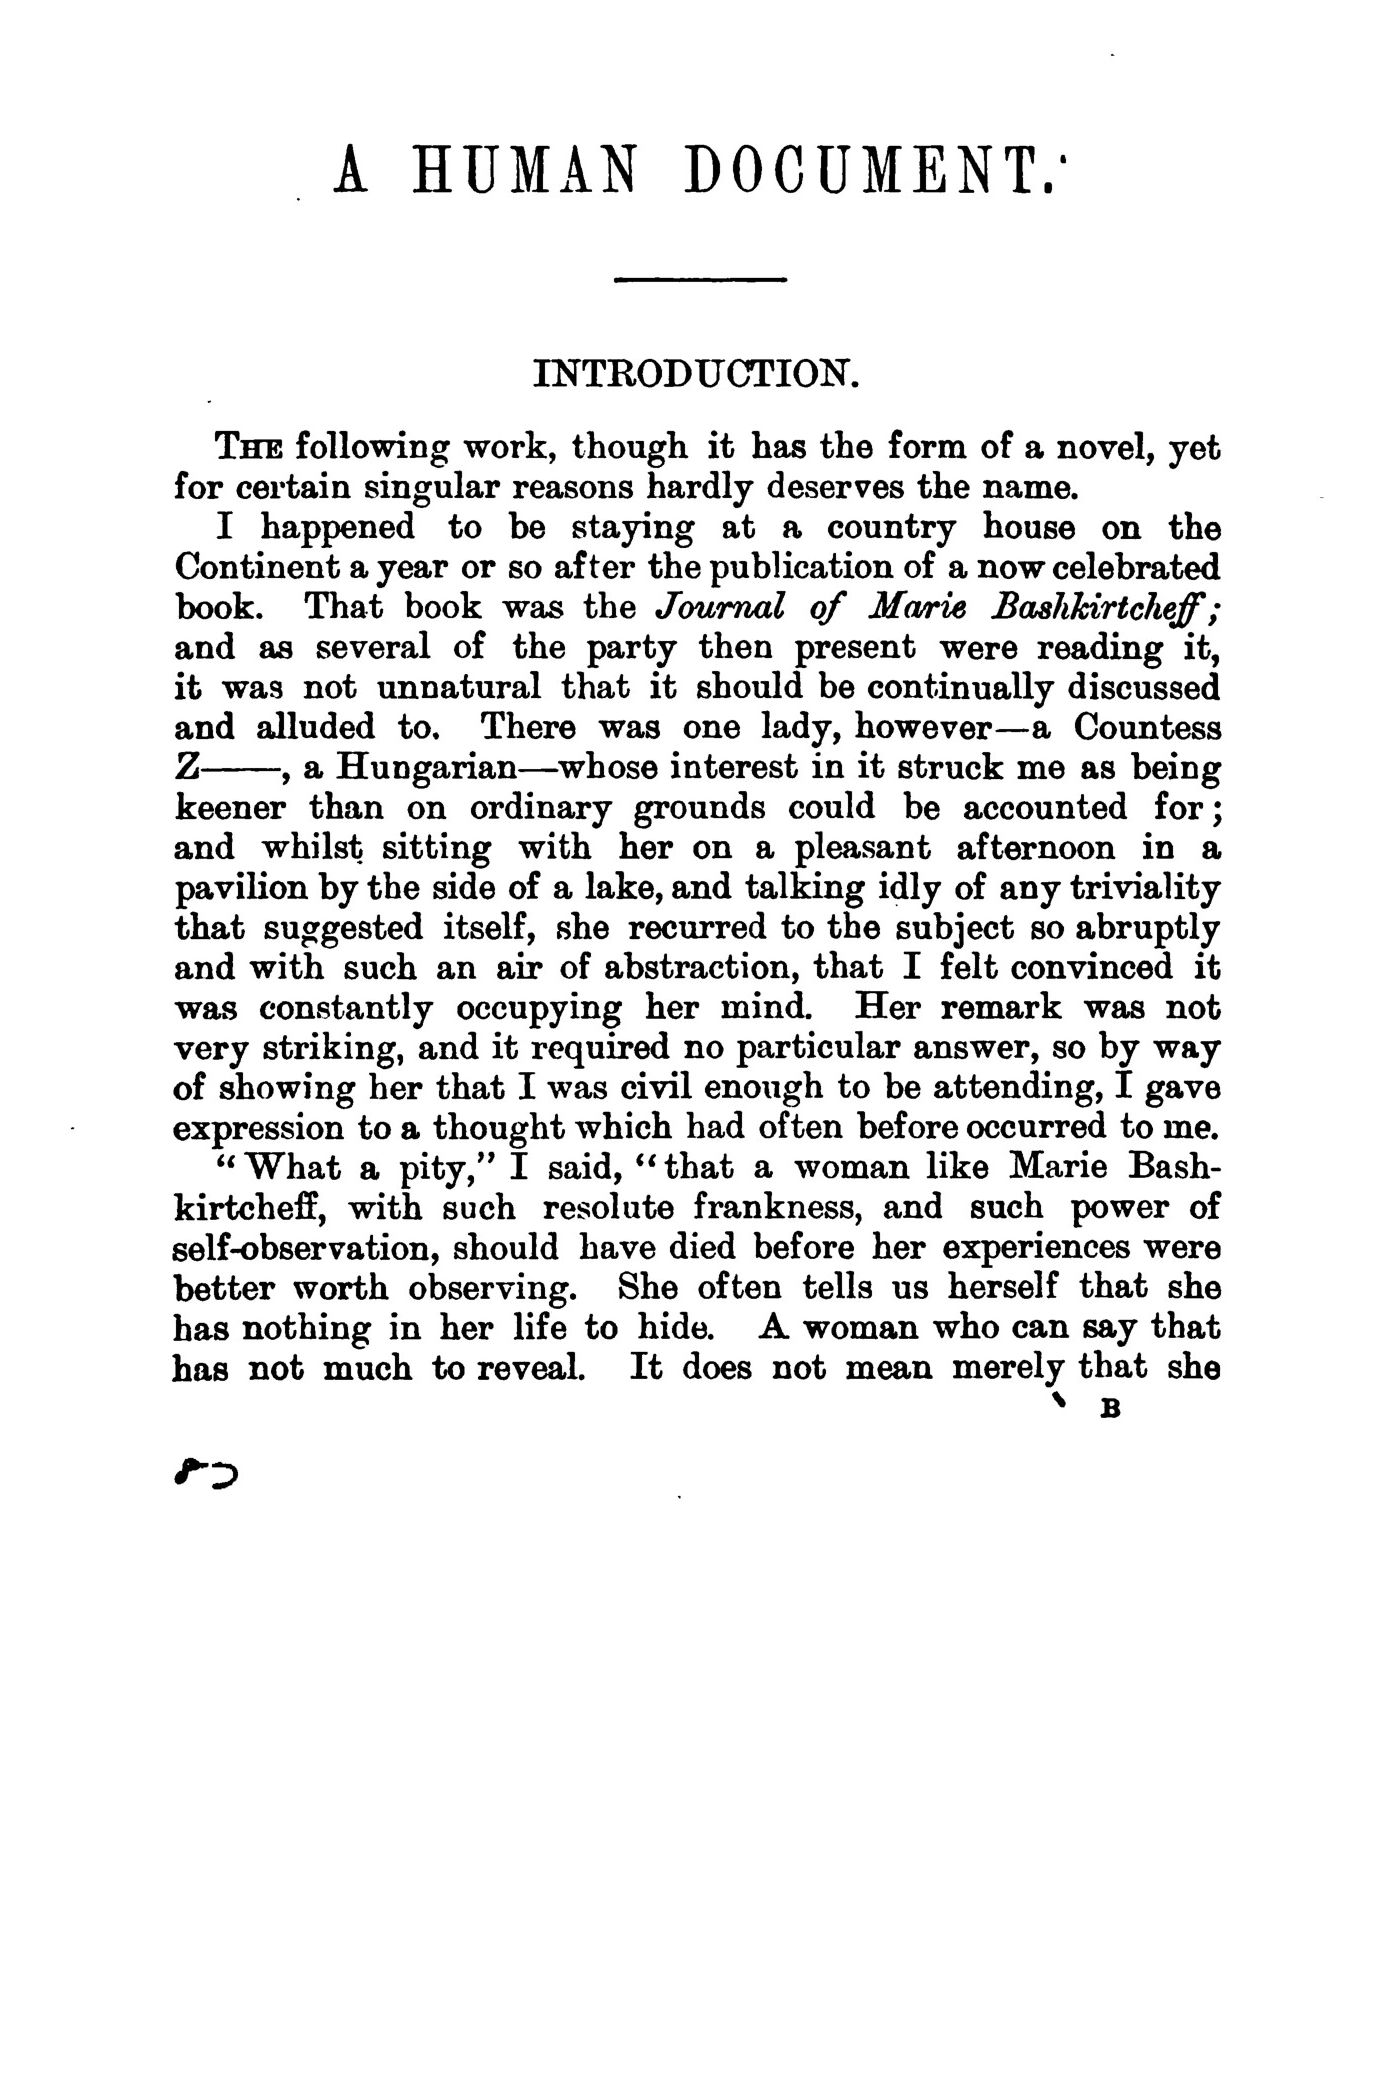
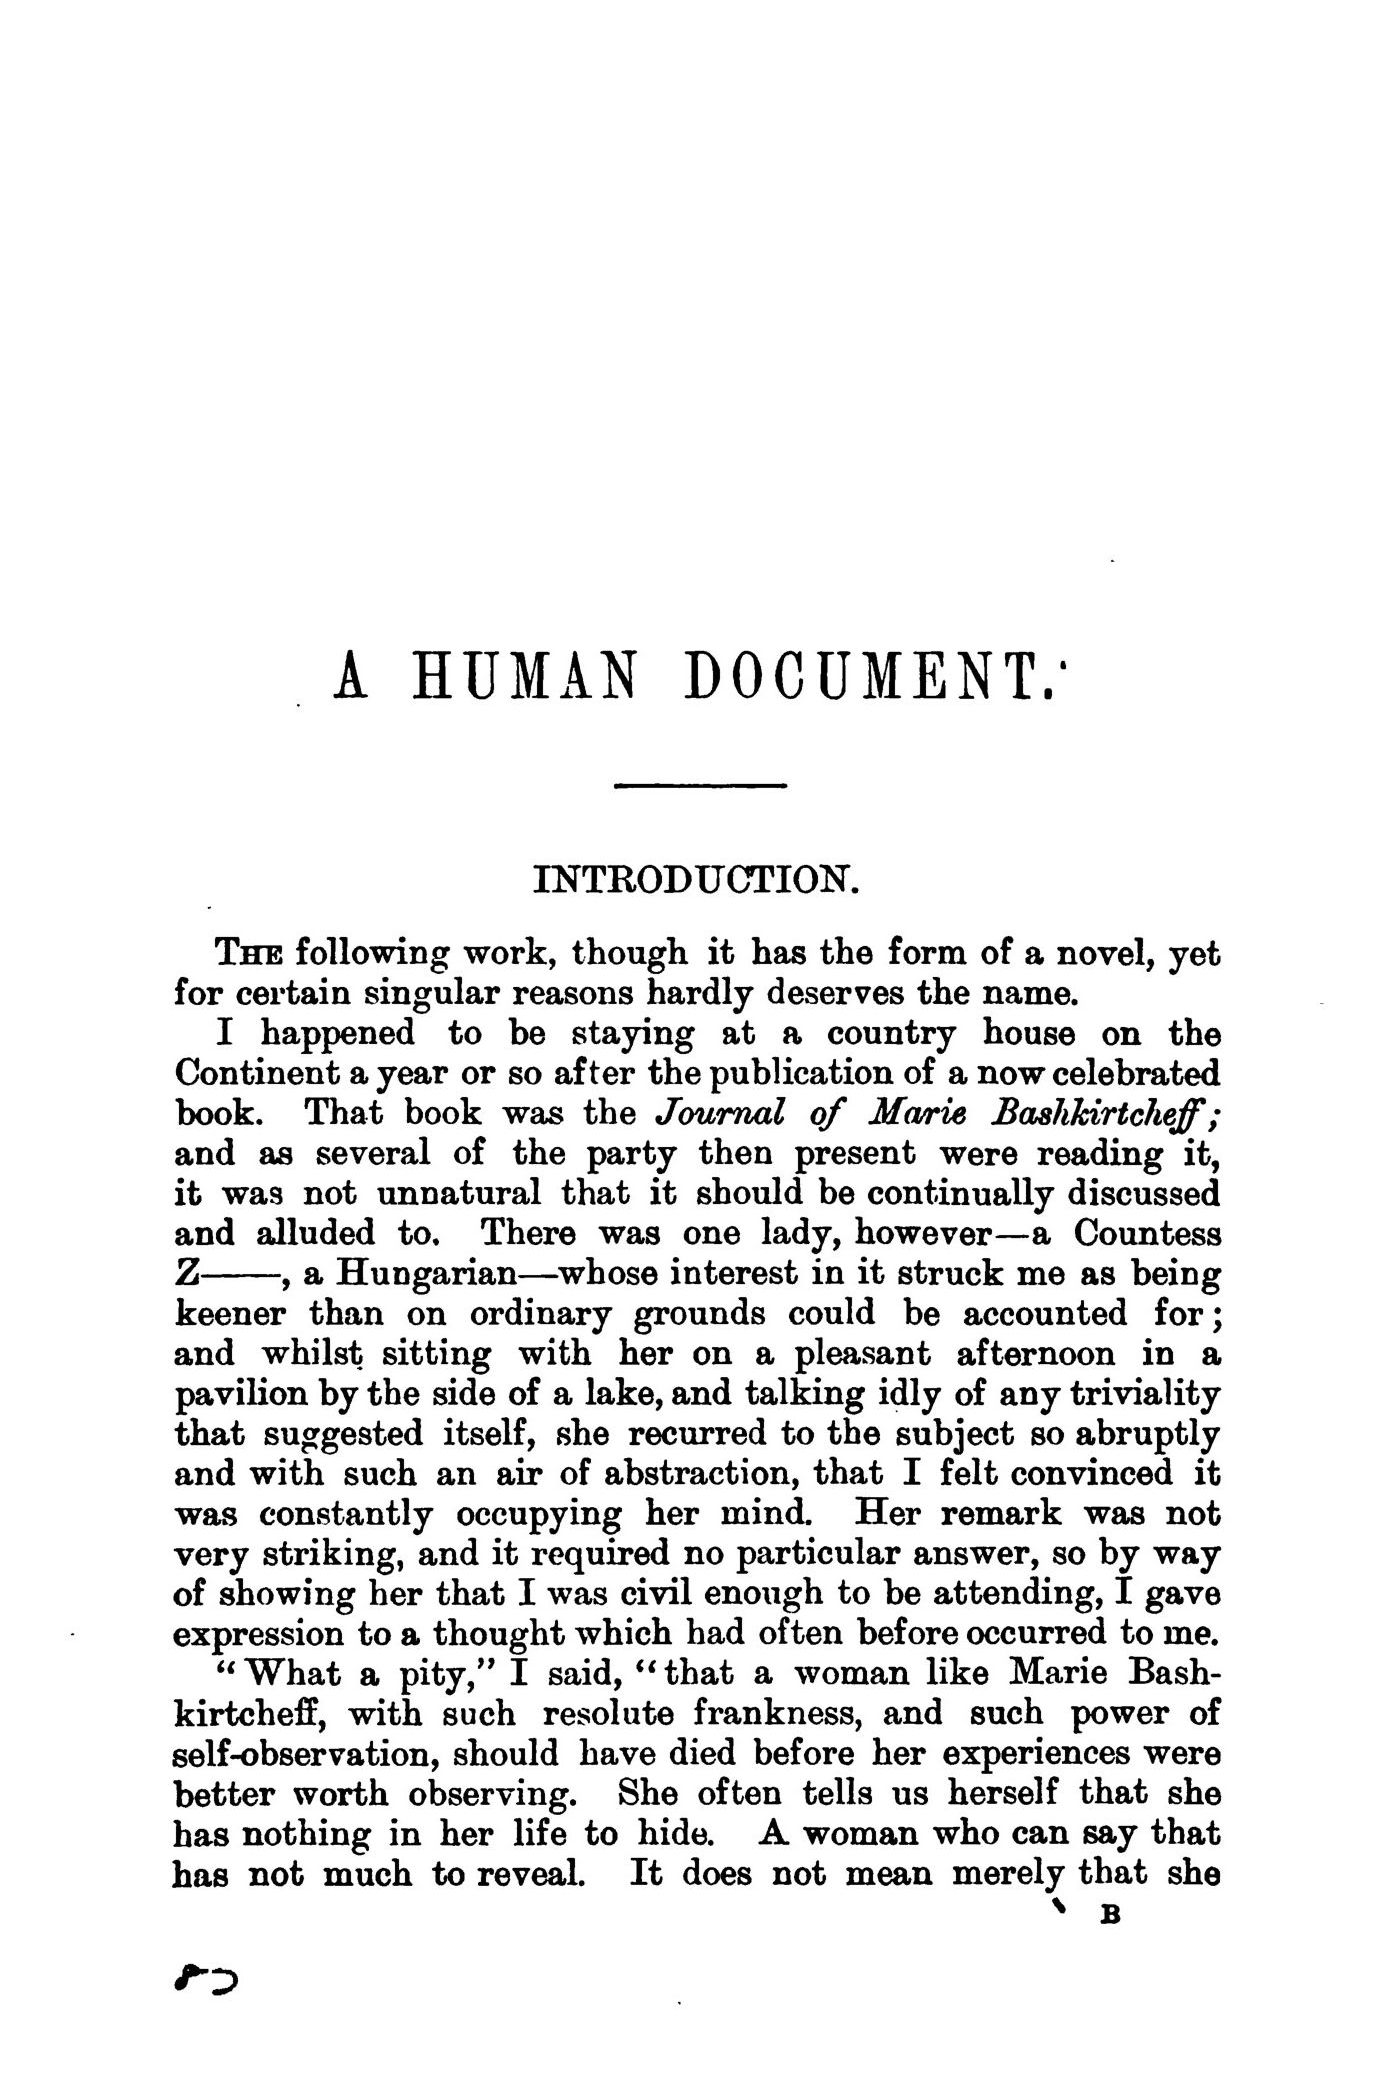
Bottom-align page 1 (Introduction) in the CV pipeline; revert collage hack
Page 1 opens on a large display title rather than the running header, so 01c
Pass 1 anchored it near the top and stripped the chapter-opening sink, leaving
the short intro floating above a ~506px false blank bottom (body ended at
y=1394 vs the median 1900 every full page lands on).

Fix it where it belongs — in the pipeline, so the published image AND the OCR
coordinates move together:
  - config: CHAPTER_PAGES = {1} (the one body-bottom-anchored page).
  - 01c: add a deterministic `--realign` path that translates an already-
    corrected page (image + word bboxes + page_corrections) so its body bottom
    meets the median title-page bottom. No re-OCR — Apple Vision is
    nondeterministic and the DB is a versioned artifact, so Pass 2's geometry is
    reproduced by a pure +506px shift of committed data.
  - regenerated data/pages_corrected/p0001.jpg, humument.db (page-1 coords),
    and via 01d/02/03 the normalized image + whitespace graph + web export.

Now that the data itself is aligned, revert render_showcase.py to plain
_contain (drop the hard-coded per-cell baseline) and regenerate the collages.

humument-data + humument-images bumped to 0.1.1 (page-1 data correction); the
humument library floats on humument-*@0.1 so it needs no change. verify: 13/13
checks, 10 tests, typecheck all pass.

diff --git a/pipeline/01c_correct_tilt.py b/pipeline/01c_correct_tilt.py
@@ -441,17 +441,90 @@ def process_chapter_page(page_num, words, targets, db):
 
 
 # ---------------------------------------------------------------------------
+# Deterministic bottom-align for already-corrected pages (no re-OCR)
+# ---------------------------------------------------------------------------
+
+def median_title_body_bottom(db):
+    """Median body-bottom (corrected-space y) over the header-anchored title
+    pages — the line every full page ends on, and the target CHAPTER_PAGES are
+    aligned to. The chapter pages themselves are excluded so they never bias
+    their own target."""
+    ys = [y for (pn, y) in db.execute(
+              "SELECT page_num, body_y1 FROM page_corrections "
+              "WHERE body_y1 IS NOT NULL")
+          if pn not in CHAPTER_PAGES]
+    return statistics.median(ys) if ys else None
+
+
+def realign_bottom(db, page_num, target_bottom):
+    """Translate an already-corrected page — its image and OCR coordinates in
+    lockstep — so the body bottom rests on target_bottom. A pure vertical shift
+    of committed data: deterministic and NOT a re-OCR (Apple Vision is
+    nondeterministic and the DB is a versioned artifact, so the geometry Pass 2
+    would produce is reproduced by translation instead). Returns the applied
+    dy in px, or 0 if there is nothing to move."""
+    row = db.execute(
+        "SELECT body_y1 FROM page_corrections WHERE page_num = ?",
+        (page_num,)).fetchone()
+    if not row or row[0] is None:
+        return 0
+    delta = int(round(target_bottom - row[0]))
+    if delta == 0:
+        return 0
+
+    # image: shift content down by delta — expose paper-white at the top, clip
+    # the (blank) overflow off the bottom. Same size in/out.
+    path = page_img_corrected(page_num)
+    src = Image.open(path).convert("RGB")
+    shifted = Image.new("RGB", src.size, (255, 255, 255))
+    shifted.paste(src, (0, delta))
+    shifted.save(path, quality=80)
+
+    # coordinates move with the pixels. NULL title/body fields (true chapter
+    # pages) stay NULL under +delta; valid_* is re-clipped to the canvas.
+    db.execute(
+        "UPDATE words SET bbox_y0 = bbox_y0 + ?, bbox_y1 = bbox_y1 + ? "
+        "WHERE page_num = ?", (delta, delta, page_num))
+    db.execute(
+        "UPDATE page_corrections SET dy = dy + ?, "
+        "title_y0 = title_y0 + ?, title_y1 = title_y1 + ?, "
+        "body_y0 = body_y0 + ?, body_y1 = body_y1 + ?, "
+        "valid_y0 = MAX(0, valid_y0 + ?), valid_y1 = MIN(?, valid_y1 + ?) "
+        "WHERE page_num = ?",
+        (delta, delta, delta, delta, delta, delta, src.height, delta, page_num))
+    db.commit()
+    return delta
+
+
+# ---------------------------------------------------------------------------
 # Main
 # ---------------------------------------------------------------------------
 
 def main():
     ap = argparse.ArgumentParser(description="Stage 1c: two-pass correction")
     ap.add_argument("--pages", help="e.g. '28' or '9-285'. Default: all content pages.")
+    ap.add_argument("--realign", action="store_true",
+                    help="Deterministically bottom-align CHAPTER_PAGES from the "
+                         "committed corrected images + OCR (no re-OCR), then exit. "
+                         "Run 01d/02/03 afterwards to propagate downstream.")
     a = ap.parse_args()
 
     db = sqlite3.connect(DB_PATH)
     init_db(db)
     DIR_PAGES_CORRECTED.mkdir(parents=True, exist_ok=True)
+
+    if a.realign:
+        target = median_title_body_bottom(db)
+        if target is None:
+            print("No title-page body bottoms — nothing to align against")
+            db.close()
+            return
+        print(f"Realign target (median title body bottom): {target:.0f}")
+        for p in sorted(CHAPTER_PAGES):
+            dy = realign_bottom(db, p, target)
+            print(f"  page {p:4d}: dy={dy:+d}")
+        db.close()
+        return
 
     if a.pages:
         total = db.execute("SELECT MAX(page_num) FROM pages").fetchone()[0] or PDF_CONTENT_END

diff --git a/pipeline/render_showcase.py b/pipeline/render_showcase.py
@@ -20,7 +20,6 @@ from __future__ import annotations
 import json
 import sqlite3
 
-import numpy as np
 from PIL import Image, ImageDraw, ImageFont
 
 from config import (
@@ -55,35 +54,15 @@ def _font(size: int) -> ImageFont.FreeTypeFont:
     return ImageFont.load_default()
 
 
-def _content_bottom(img: Image.Image, dark: int = 140, min_row: float = 0.015,
-                    bottom_skip: float = 0.05) -> int:
-    """Y of the last row holding real ink (0 → img.height). Ignores the faint
-    grey scan watermark (excluded by the darkness threshold) and any scan-edge
-    artefact in the bottom margin (excluded by bottom_skip), so a short page like
-    a chapter opener reports where its text actually ends, not the page edge."""
-    g = np.asarray(img.convert("L"))
-    lim = int(g.shape[0] * (1 - bottom_skip))
-    rows = np.where((g[:lim] < dark).mean(axis=1) > min_row)[0]
-    return int(rows.max()) + 1 if len(rows) else img.height
-
-
-def _contain(img: Image.Image, box_w: int, box_h: int,
-             baseline: float | None = None) -> Image.Image:
-    """Fit img inside (box_w, box_h) preserving aspect, centred horizontally on
-    paper. When baseline (a y within the box) is given, the image's last inked
-    row is placed on it instead of centring the whole sheet — used for the short
-    chapter-opening page so its final line rests on the same line the neighbouring
-    full pages end on, at the same scale, rather than floating above a big gap."""
+def _contain(img: Image.Image, box_w: int, box_h: int) -> Image.Image:
+    """Fit img inside (box_w, box_h) preserving aspect, centred on paper."""
     scale = min(box_w / img.width, box_h / img.height)
     resized = img.resize(
         (max(1, round(img.width * scale)), max(1, round(img.height * scale))),
         Image.LANCZOS,
     )
     panel = Image.new("RGB", (box_w, box_h), PAPER)
-    ox = (box_w - resized.width) // 2
-    oy = (round(baseline - _content_bottom(img) * scale) if baseline is not None
-          else (box_h - resized.height) // 2)
-    panel.paste(resized, (ox, oy))
+    panel.paste(resized, ((box_w - resized.width) // 2, (box_h - resized.height) // 2))
     return panel
 
 
@@ -176,17 +155,9 @@ def pipeline_stages(db: sqlite3.Connection, pages: list[int]) -> Image.Image:
         lb = draw.multiline_textbbox((0, 0), label, font=label_font, spacing=6, align="right")
         draw.multiline_text((pad + gutter - 18 - (lb[2] - lb[0]), y + (cell_h - (lb[3] - lb[1])) // 2 - lb[1]),
                             label, fill=INK, font=label_font, spacing=6, align="right")
-        imgs = [load(pn) for pn in pages]
-        # the first column is the book's opening page — a chapter head whose text
-        # fills only the upper part of the sheet. Rest its last line on the median
-        # last-line height of the neighbouring full pages (same scale — every page
-        # in a stage shares a size) so it aligns with them instead of floating
-        # above a big gap or being slammed to the frame floor.
-        scale = min(cell_w / imgs[0].width, cell_h / imgs[0].height)
-        baseline = float(np.median([_content_bottom(im) * scale for im in imgs[1:]]))
-        for c, im in enumerate(imgs):
+        for c, pn in enumerate(pages):
             x = x0 + c * (cell_w + gap)
-            grid.paste(_contain(im, cell_w, cell_h, baseline if c == 0 else None), (x, y))
+            grid.paste(_contain(load(pn), cell_w, cell_h), (x, y))
             draw.rectangle([x, y, x + cell_w - 1, y + cell_h - 1], outline=(228, 228, 233), width=1)
 
     return grid

diff --git a/pipeline/config.py b/pipeline/config.py
@@ -36,10 +36,14 @@ PAGE_OFFSET = 9             # raster_index = printed_page + PAGE_OFFSET (measure
 HEADER_TOP_FRAC = 0.067
 # Body region as fractions (top, bottom, left, right).
 BODY_TOP_FRAC, BODY_BOTTOM_FRAC, BODY_LEFT_FRAC, BODY_RIGHT_FRAC = 0.106, 0.972, 0.15, 0.85
-# Empty: this edition prints the "A HUMAN DOCUMENT" running header at the top of
-# EVERY page (chapter openings just add "CHAPTER N" below it), so all pages
-# align as title pages (01c Pass 1) — there are no header-less chapter pages.
-CHAPTER_PAGES: set[int] = set()
+# This edition prints the "A HUMAN DOCUMENT" running header at the top of EVERY
+# page (chapter openings just add "CHAPTER N" below it), so page bodies align as
+# title pages (01c Pass 1) — with one exception. Page 1 (the Introduction) opens
+# on a large *display* title, not the running header; Pass 1 anchors that title
+# near the top and strips the opening sink, leaving the short intro floating
+# above a false blank bottom. It is body-bottom-anchored instead (01c --realign),
+# so its last line rests on the same line every full page ends on.
+CHAPTER_PAGES: set[int] = {1}
 
 
 # === Scan-agnostic constants ================================================
